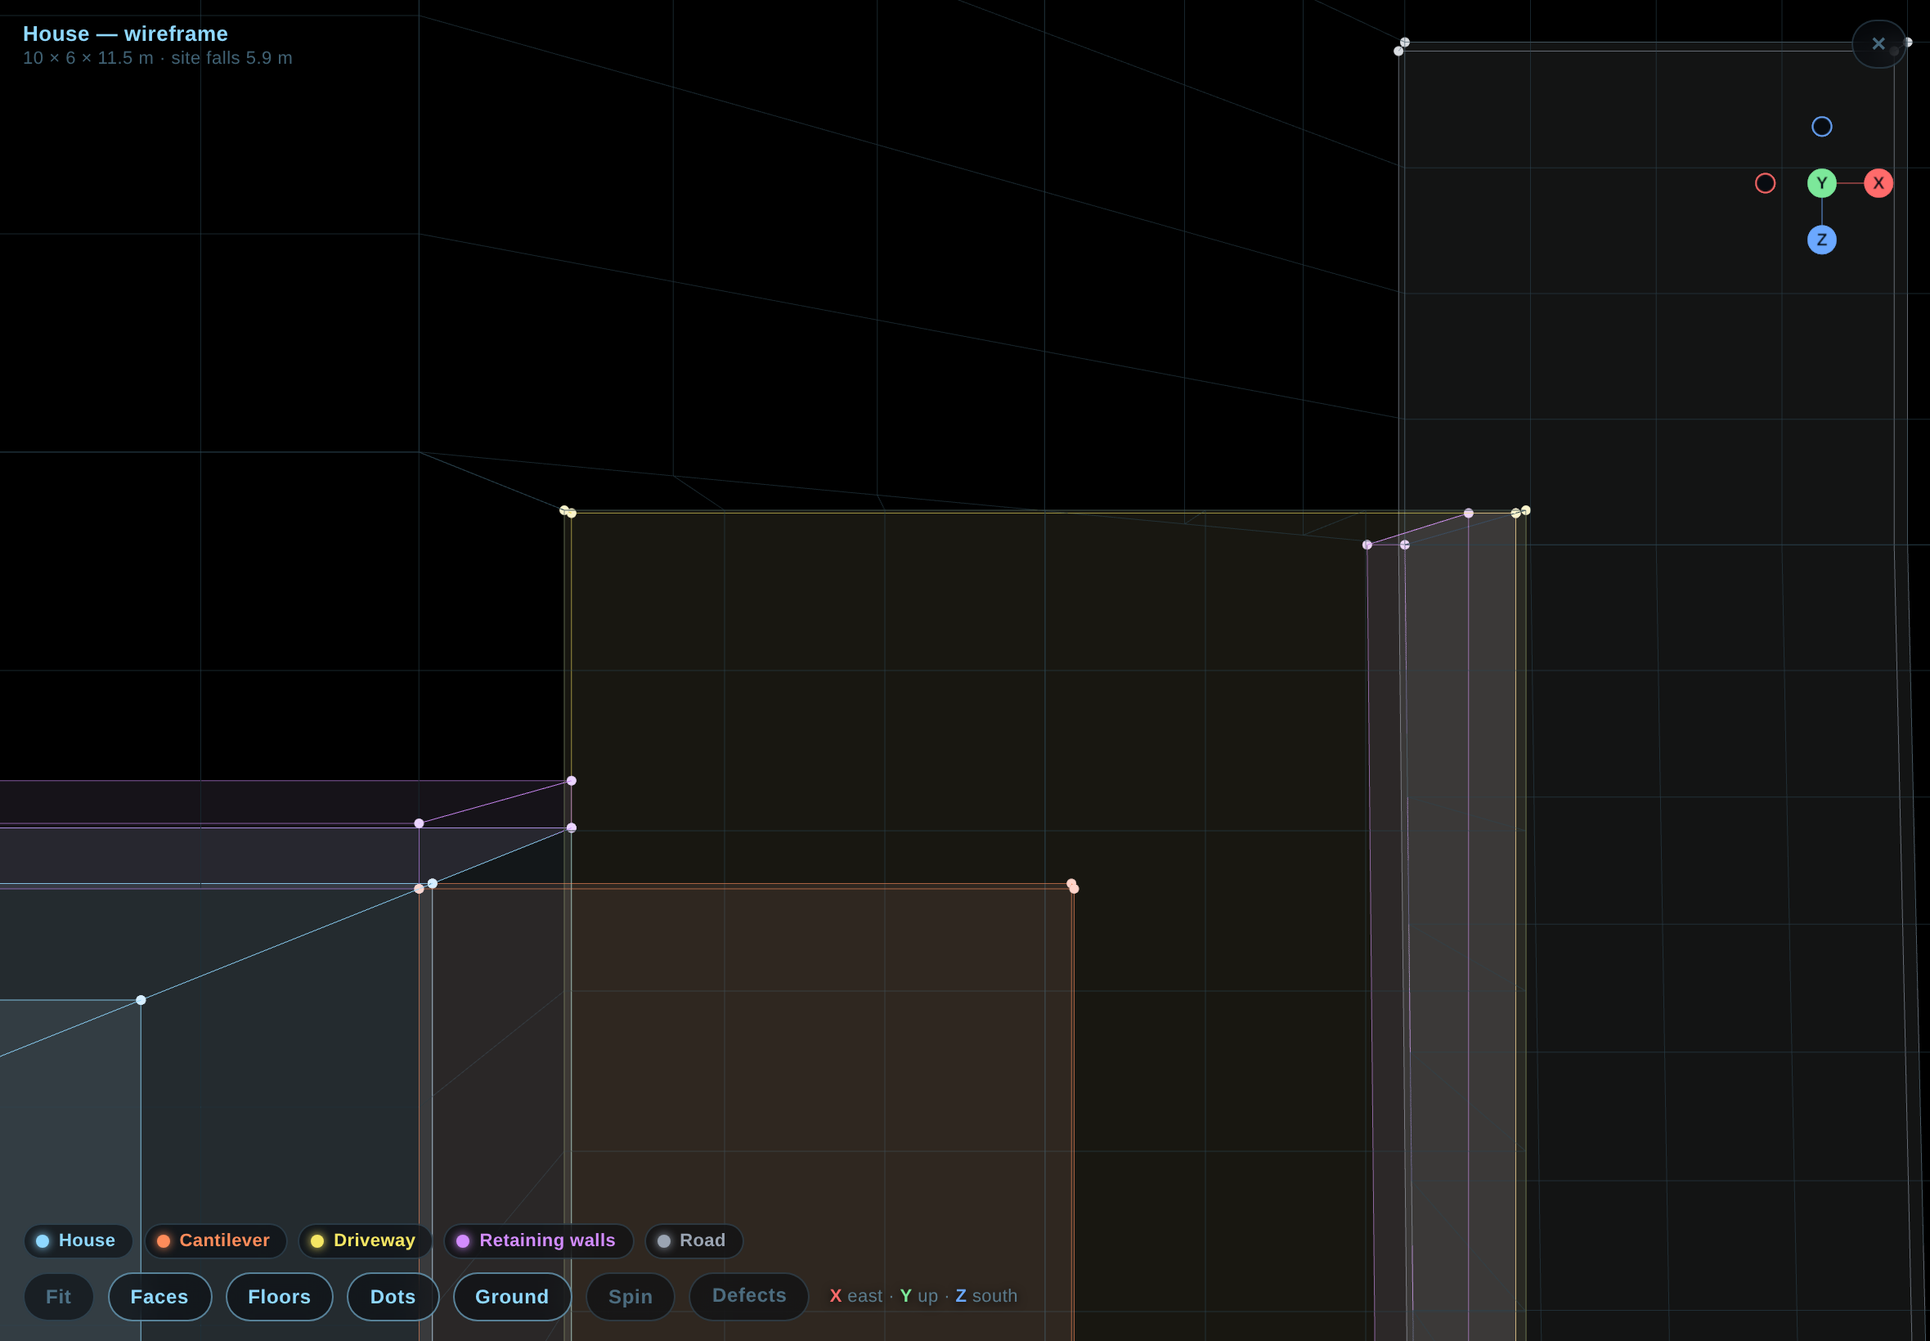
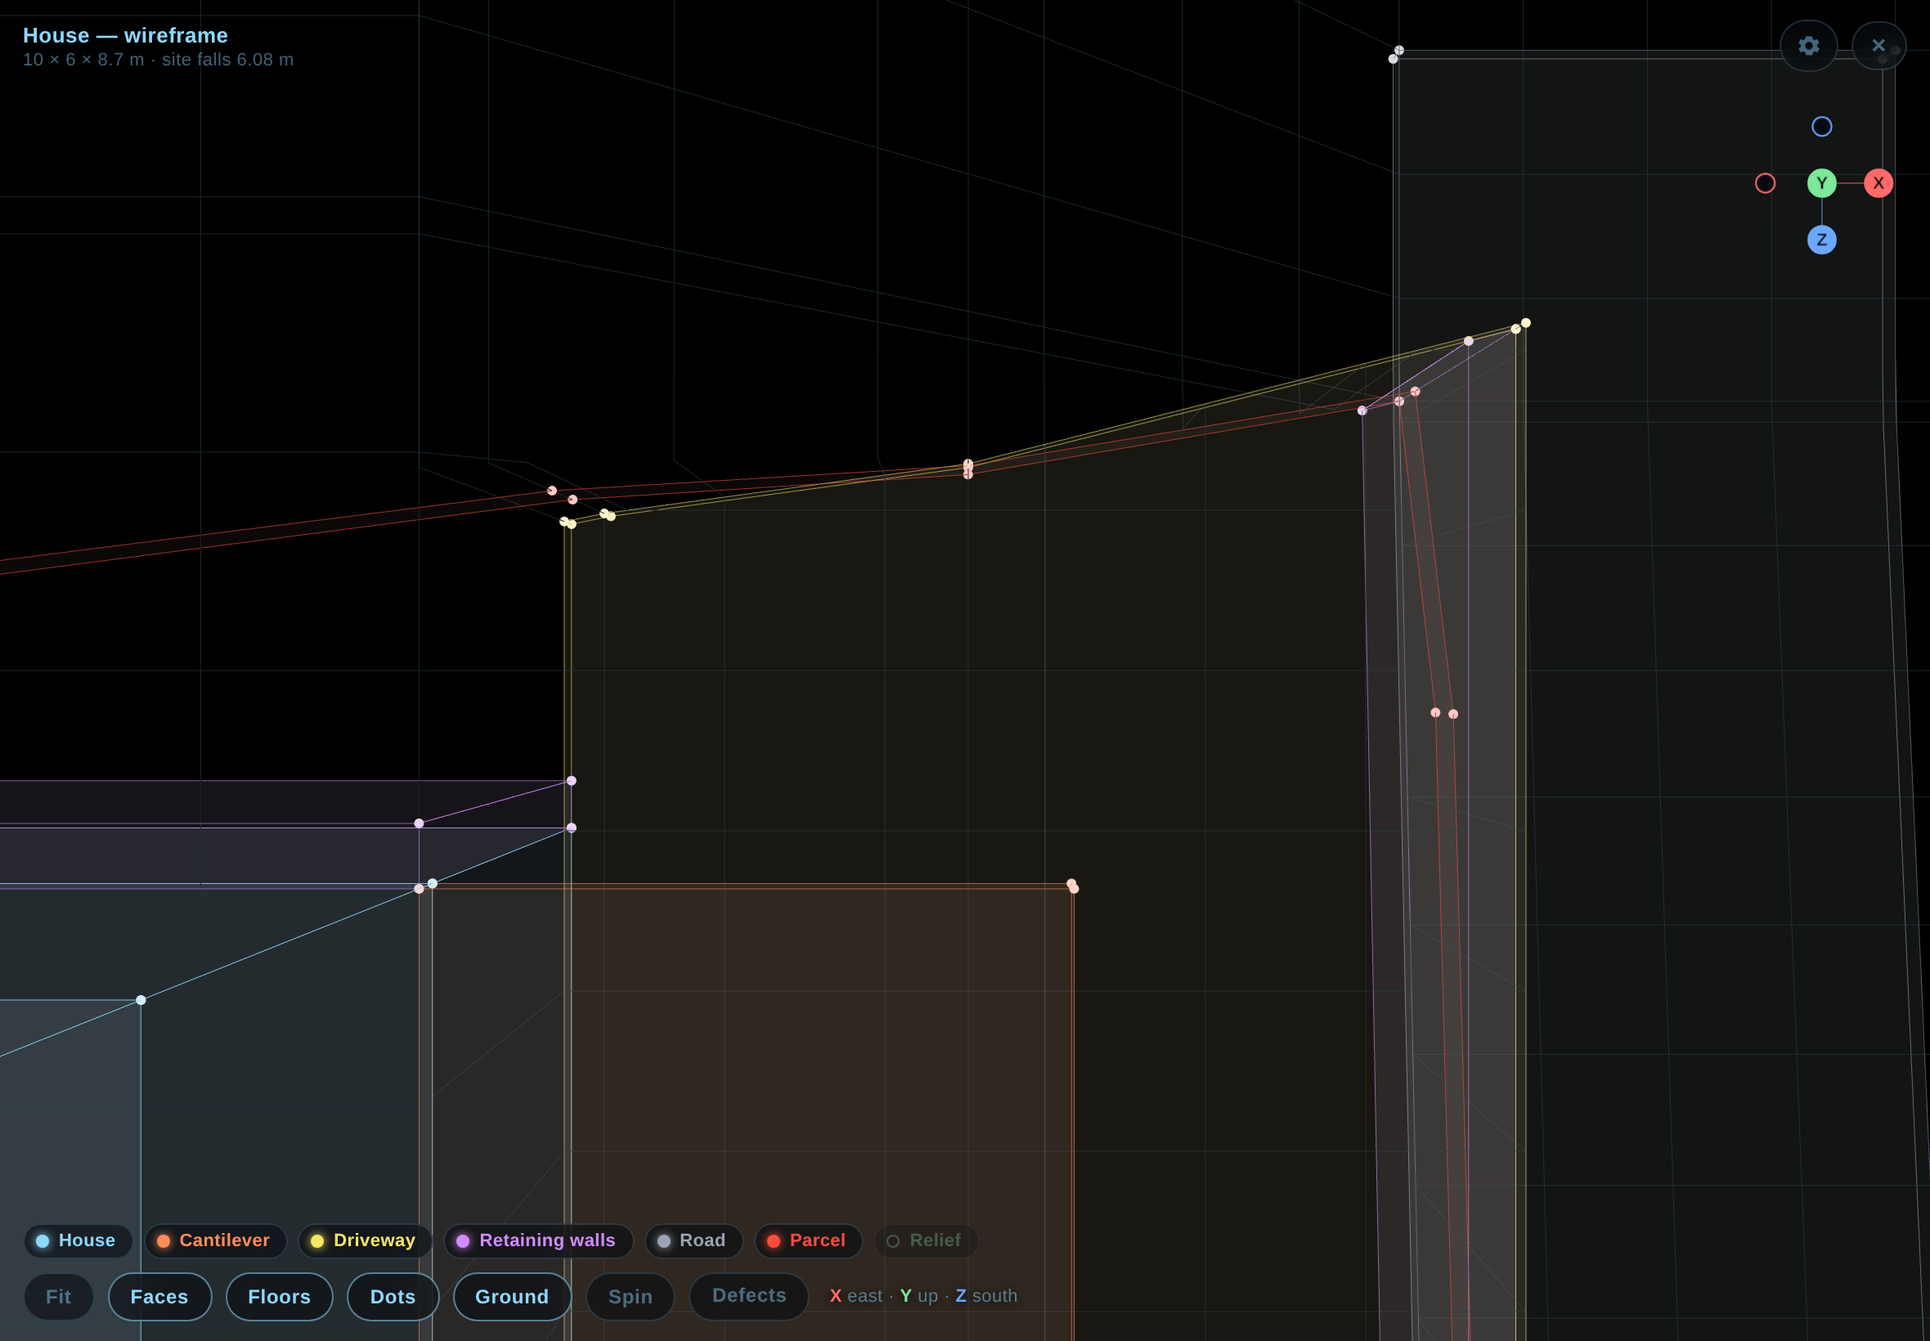
Carry the apron and the outer wall to the surveyed boundary
The cut's north edge was a flat z −1.5, which left a wedge of hill
between the apron and the north-east boundary. `terrain.cut.from` may
now be a line of [d, across] points — here the parcel's own vertices
from where its side crosses the house face line (10, −1.93) to the road
corner (16, −3.17) — and a work whose z0 is 'cut' stops on that line:
the apron's footprint takes the boundary's bends as corners, and the
walked outer wall starts each of its two chains on its own end of the
line, so its end face lies on the boundary. The ground grid samples
each line a hair either side of the slanted edge so the drop still
draws as a wall.

Claude-Session: https://claude.ai/code/session_01DNnxkDEYnqzzdbRRF1XJDk

diff --git a/apps/houseplan/app.js b/apps/houseplan/app.js
@@ -142,6 +142,10 @@ const FACE = !TER ? 0 : FRONT.axis === 'x'
   : (FRONT.sign > 0 ? e.y1 : e.y0);
 const PROFILE = TER ? [[0, TER.backLevel], ...TER.profile] : [];
 const CUT = TER?.cut ? { ...TER.cut, profile: [[0, TER.backLevel], ...TER.cut.profile] } : null;
+/* The cut's near edge across the front, `d` metres out from the face:
+   a number, or a line of [d, across] points — the boundary — straight
+   between them and held beyond. */
+const cutFrom = (d) => (typeof CUT.from === 'number' ? CUT.from : sampleProfile(CUT.from, d, 0));
 
 function sampleProfile(prof, d, across) {
   const lv = (y) => (y === 'road' ? roadLevel(across) : y);
@@ -308,7 +312,7 @@ function groundY(x, z) {
   const along = FRONT.axis === 'x' ? x : z;
   const across = FRONT.axis === 'x' ? z : x;
   const d = (along - FACE) * FRONT.sign;
-  if (!CUT || across < CUT.from || across > CUT.to) return natural(d, across);
+  if (!CUT || across < cutFrom(d) || across > CUT.to) return natural(d, across);
   const base = sampleProfile(CUT.profile, d, across);
   if (d < 0 || !CUT.ramp) return base;
   const r = CUT.ramp;
@@ -513,14 +517,22 @@ async function boot() {
 
   for (const v of VOLS) {
     const o = makeObject(v);
+    /* A z0 of 'cut' stops the volume on the cut's near edge — a line
+       when the boundary runs at an angle — so its end follows it. */
+    const onCut = v.z0 === 'cut' && CUT && FRONT.axis === 'x';
+    const cutAt = (x) => cutFrom((x - FACE) * FRONT.sign);
     if (followsGround(v) && TER) {
-      const [a0, a1] = FRONT.axis === 'x' ? [v.z0, v.z1] : [v.x0, v.x1];
       const lo = FRONT.axis === 'x' ? v.x0 : v.z0, hi = FRONT.axis === 'x' ? v.x1 : v.z1;
+      const a0Lo = onCut ? cutAt(lo) : (FRONT.axis === 'x' ? v.z0 : v.x0);
+      const a0Hi = onCut ? cutAt(hi) : a0Lo;
+      const a1 = FRONT.axis === 'x' ? v.z1 : v.x1;
       const dFace = ((FRONT.sign > 0 ? lo : hi) - FACE) * FRONT.sign;
-      const steps = runOut(stationsBetween(a0, a1), (a) => yAt(v.y1, a, dFace) - yAt(v.y0, a, dFace));
+      const steps = runOut(stationsBetween(Math.max(a0Lo, a0Hi), a1), (a) => yAt(v.y1, a, dFace) - yAt(v.y0, a, dFace));
       const n = steps.length;
+      /* Each side starts on its own end of the cut edge; the stations
+         beyond the first are shared, so the two chains match. */
       const side = (fixed, list) => list.map((a) => (FRONT.axis === 'x' ? [fixed, a] : [a, fixed]));
-      const ring = [...side(lo, steps), ...side(hi, steps.slice().reverse())];
+      const ring = [...side(lo, [a0Lo, ...steps.slice(1)]), ...side(hi, [a0Hi, ...steps.slice(1)].reverse())];
       const acrossOf = ([x, z]) => (FRONT.axis === 'x' ? z : x);
       const cornersAt = [0, n - 1, n, 2 * n - 1];
       const bottom = ring.map(([x, z]) => [x, yAt(v.y0, acrossOf([x, z]), dFace), z]);
@@ -530,13 +542,26 @@ async function boot() {
       o.dims = walkedDims(bottom, top, n);
       continue;
     }
-    const corners = [[v.x0, v.z0], [v.x1, v.z0], [v.x1, v.z1], [v.x0, v.z1]];
-    addVolume(
-      o,
-      corners.map(([x, z]) => [x, z === v.z1 ? v.y0End ?? v.y0 : v.y0, z]),
-      corners.map(([x, z]) => [x, z === v.z1 ? v.y1End ?? v.y1 : v.y1, z]),
-    );
-    o.dims = boxDims(v);
+    let corners = [[v.x0, v.z0], [v.x1, v.z0], [v.x1, v.z1], [v.x0, v.z1]];
+    if (onCut) {
+      /* The near edge is the cut line itself: its end points at the
+         volume's two sides, and every bend of the line between them. */
+      const bends = typeof CUT.from === 'number' ? [] : CUT.from
+        .map(([d, a]) => [FACE + FRONT.sign * d, a])
+        .filter(([x]) => x > v.x0 + 1e-6 && x < v.x1 - 1e-6)
+        .sort((p, q) => q[0] - p[0]);
+      corners = [[v.x0, v.z1], [v.x1, v.z1], [v.x1, cutAt(v.x1)], ...bends, [v.x0, cutAt(v.x0)]];
+    }
+    const bottom = corners.map(([x, z]) => [x, z === v.z1 ? v.y0End ?? v.y0 : v.y0, z]);
+    const top = corners.map(([x, z]) => [x, z === v.z1 ? v.y1End ?? v.y1 : v.y1, z]);
+    addVolume(o, bottom, top);
+    if (onCut) {
+      /* Every side of the footprint, and the height. */
+      o.dims = top.map((a, i) => ({ a, b: top[(i + 1) % top.length], label: mLabel(plan2(a, top[(i + 1) % top.length])) }));
+      o.dims.push({ a: bottom[1], b: top[1], label: `h ${mLabel(top[1][1] - bottom[1][1])}` });
+    } else {
+      o.dims = boxDims(v);
+    }
   }
 
   /* ── the driveway, derived ──────────────────────────── */
@@ -889,7 +914,11 @@ async function boot() {
         if (!along.includes(p)) along.push(p);
       });
     }
-    if (CUT) across.push(CUT.from - 0.001, CUT.from, CUT.to, CUT.to + 0.001);
+    if (CUT) across.push(CUT.to, CUT.to + 0.001);
+    if (CUT && typeof CUT.from === 'number') across.push(CUT.from - 0.001, CUT.from);
+    /* A cut edge that runs at an angle is met line by line below; its
+       bends get a line of their own along the front. */
+    if (CUT && typeof CUT.from !== 'number') for (const [d] of CUT.from) { const p = FACE + FRONT.sign * d; if (!along.includes(p)) along.push(p); }
     if (CUT?.ramp) {
       /* Over the driveway the grid runs at the slab's own stations, so
          its lines and the slab's edges are one polyline. */
@@ -905,14 +934,36 @@ async function boot() {
   /* Every line is walked sample by sample in both directions, so the
      grid bends with the ground whichever axis the fall is on. */
   const gridPts = [];
+  /* Where the cut's near edge is a line at an angle, each grid line
+     crossing it takes a sample a hair either side of the crossing, so
+     the drop is drawn as a wall there too. */
+  const slanted = CUT && typeof CUT.from !== 'number' && FRONT.axis === 'x';
+  const withCrossings = (list, crossings) => {
+    if (!crossings.length) return list;
+    const out = [...list];
+    for (const c of crossings) out.push(c - 0.001, c, c + 0.001);
+    return out.sort((a, b) => a - b);
+  };
+  const xCrossings = (z) => {
+    const out = [];
+    if (!slanted) return out;
+    for (let i = 1; i < CUT.from.length; i++) {
+      const [d0, a0] = CUT.from[i - 1], [d1, a1] = CUT.from[i];
+      if ((a0 - z) * (a1 - z) <= 0 && a0 !== a1) out.push(FACE + FRONT.sign * (d0 + ((z - a0) * (d1 - d0)) / (a1 - a0)));
+    }
+    return out;
+  };
+  const zCrossings = (x) => (slanted && (x - FACE) * FRONT.sign >= 0 ? [cutFrom((x - FACE) * FRONT.sign)] : []);
   for (const z of zs) {
-    for (let i = 0; i < xs.length - 1; i++) {
-      gridPts.push(xs[i], groundY(xs[i], z), z, xs[i + 1], groundY(xs[i + 1], z), z);
+    const line = withCrossings(xs, xCrossings(z));
+    for (let i = 0; i < line.length - 1; i++) {
+      gridPts.push(line[i], groundY(line[i], z), z, line[i + 1], groundY(line[i + 1], z), z);
     }
   }
   for (const x of xs) {
-    for (let i = 0; i < zs.length - 1; i++) {
-      gridPts.push(x, groundY(x, zs[i]), zs[i], x, groundY(x, zs[i + 1]), zs[i + 1]);
+    const line = withCrossings(zs, zCrossings(x));
+    for (let i = 0; i < line.length - 1; i++) {
+      gridPts.push(x, groundY(x, line[i]), line[i], x, groundY(x, line[i + 1]), line[i + 1]);
     }
   }
   ground.add(segments(gridPts, new THREE.LineBasicMaterial({

diff --git a/apps/houseplan/defects.html b/apps/houseplan/defects.html
@@ -193,13 +193,13 @@
     </section>
 
     <section class="card" id="d10">
-      <div class="head"><span class="num">10</span><span class="title">The apron's north edge has no wall</span><span class="where">z −2, x 10–16, and x 10, z −2 to 0</span><span class="status open">open</span></div>
+      <div class="head"><span class="num">10</span><span class="title">The apron's north edge has no wall</span><span class="where">the north-east boundary, (10, −1.93) to (16, −3.17), and x 10, z −1.93 to 0</span><span class="status open">open</span></div>
       <div class="body">
-        <p><b>Wrong:</b> the cut in front of the house is bounded to the north by a bare vertical face — 2.9 m of hill at x 10, falling to nothing at about x 13, and from there to the outer wall the apron sits <em>above</em> the natural ground with nothing under its edge. The strip of the house's east face line north of the garage (x 10, z −2 to 0) is bare too.</p>
-        <p><b>Fix:</b> carry the wall line on from the garage's north band: a band on the hill side of x 10 from z −0.3 to −2.3, then a band on the north side of z −2 from x 9.7 to the outer wall — a cut wall while the ground is above the apron, a fill wall down to the natural ground beyond — meeting the outer wall at the corner.</p>
+        <p><b>Wrong:</b> the cut in front of the house is bounded to the north by a bare vertical face — 2.9 m of hill at x 10, falling to nothing at about x 13, and from there to the outer wall the apron sits <em>above</em> the natural ground with nothing under its edge. The strip of the house's east face line north of the garage (x 10, z −1.93 to 0) is bare too. The edge used to stop at z −1.5, short of the boundary; the apron and the outer wall now run to the boundary itself.</p>
+        <p><b>Fix:</b> carry the wall line on from the garage's north band: a band on the hill side of x 10 from z −0.3 to −2.3, then a band just inside the boundary line from x 9.7 to the outer wall — a cut wall while the ground is above the apron, a fill wall down to the natural ground beyond — meeting the outer wall at the corner.</p>
       </div>
       <div class="shots">
-        <figure><img src="defects/10-apron-north-plan.png" alt="Plan view of the apron's north edge" /><figcaption>Straight down on the apron's north-west corner: the garage's north band ends at the house face, and the apron's north edge (top of the yellow) has no wall.</figcaption></figure>
+        <figure><img src="defects/10-apron-north-plan.png" alt="Plan view of the apron's north edge" /><figcaption>Straight down on the apron's north end: its edge runs on the boundary, bend for bend, to the road corner, where the outer wall ends on it — and none of it has a wall yet. (The red ribbon sits lower than the slab, so from this height it draws a little offset.)</figcaption></figure>
         <figure><img src="defects/garage-walls-corner.png" alt="The garage walls at the south-east corner" /><figcaption>For reference: the garage's bands outside the envelope, the south one running into the fillet wall at the corner.</figcaption></figure>
       </div>
     </section>

diff --git a/apps/houseplan/plan.js b/apps/houseplan/plan.js
@@ -121,11 +121,15 @@ window.HOUSE_PLAN = {
     /* In front of the house only — between `from` and `to` across the
      * front — the ground is cut to this profile instead: dropped to the
      * garage floor at the door, level out to the wall, then down. */
-    /* The cut spans the frontage the survey gives — z −3.17 to 16.17 —
-     * less a little at the north end, where the boundary runs at an
-     * angle and the apron's corner at x 10 must stay inside it. */
+    /* The cut spans the frontage the survey gives, to z 16.17 at the
+     * south end. At the north end the boundary runs at an angle, so
+     * `from` is a line, not a number: [out from the face, across], the
+     * parcel's own vertices from where its north-east side crosses the
+     * house face line (x 10, z −1.93) to its road corner (16, −3.17),
+     * straight between and held beyond. Everything that stops at the
+     * cut's north edge — the apron, the outer wall — stops on it. */
     cut: {
-      from: -1.5,
+      from: [[0, -1.93], [0.25, -1.98], [2.52, -2.29], [6, -3.17]],
       to: 16.17,
       profile: [
         [0, -2.9],     // straight down at the door, to the garage floor
@@ -172,7 +176,9 @@ window.HOUSE_PLAN = {
    * foot simply ends where the two meet. */
   works: [
     { id: 'canopy', group: 'canopy', name: 'Cantilever over the door', x0: 10, x1: 13, y0: -0.2, y1: 0, z0: 0, z1: 6 },
-    { id: 'driveway', group: 'drive', name: 'Apron, in front of the door', x0: 10, x1: 16, y0: -3.1, y1: -2.9, z0: -1.5, z1: 6 },
+    /* A z0 of 'cut' is the cut's north edge — the boundary line — so
+     * the apron fills the parcel right up to it. */
+    { id: 'driveway', group: 'drive', name: 'Apron, in front of the door', x0: 10, x1: 16, y0: -3.1, y1: -2.9, z0: 'cut', z1: 6 },
     /* The ramp itself is derived from `terrain.cut` — one slab from the
      * apron's edge to the mouth, the fillet's corner included — as are
      * the walls along its uphill side and the mouth. */
@@ -190,7 +196,7 @@ window.HOUSE_PLAN = {
     { id: 'garage-wall-south', group: 'wall', name: 'Garage wall, south', x0: -0.3, x1: 10, z0: 6, z1: 6.3, y0: -3.1, y1: 0 },
     { id: 'garage-wall-west', group: 'wall', name: 'Garage wall, west', x0: -0.3, x1: 0, z0: 0, z1: 6, y0: -3.1, y1: 0 },
     { id: 'garage-wall-north', group: 'wall', name: 'Garage wall, north', x0: -0.3, x1: 10, z0: -0.3, z1: 0, y0: -3.1, y1: 0 },
-    { id: 'retainer', group: 'wall', name: 'Retaining wall', x0: 15.7, x1: 16, y0: { road: 0 }, y1: -3.1, z0: -1.5, z1: 6 },
+    { id: 'retainer', group: 'wall', name: 'Retaining wall', x0: 15.7, x1: 16, y0: { road: 0 }, y1: -3.1, z0: 'cut', z1: 6 },
     { id: 'retainer-ramp', group: 'wall', name: 'Retaining wall, tapering out', x0: 15.7, x1: 16, z0: 6, z1: 14, y0: { road: 0 }, y1: { floor: -0.2 } },
     /* The road, parallel to the wall along its outer face. `frame: false`
      * keeps its 30 m out of the camera's Fit, so the house stays the

diff --git a/apps/houseplan/DEFECTS.md b/apps/houseplan/DEFECTS.md
@@ -60,7 +60,7 @@ fix.
 | 7 | Ramp, z 6–22 | Grid at 1 m, slabs at 0.5 m: lines that should coincide did not. | R5: one `STEP` (0.5 m) for walked volumes and for the grid over the driveway, stations from `ramp.from`, so slab edges and grid lines are the same polyline. | shipped | (19, −1.6, 9.6) → (14.5, −4.2, 10.5) |
 | 8 | Whole ramp | 27 % average, ~36 % mid. | D2 brought it to 12.5 %, D3's landing to 18 % — and the real frontage (19.3 m, ending at z 16.17) leaves only z 6–14 for the grade: **1.76 m over 8 m, 22 % average, ~27 % mid**, with a 2.2 m landing. The frontage is the hard limit now; see D4. | open — decision D4 | (34, −2.5, 10) → (14.5, −4.5, 10) |
 | 9 | The entrance, z 16–22 | The outer wall ran to the tip and the floor met the road only over the last 1.5 m. | D3: the driveway reaches the road at z 18 and from there *is* the road's surface (a 4 m landing that follows the road's own fall, with the mouth's flare opening onto it); the outer wall runs out at z ≈ 16.1, so the road side is open for 6 m, the first 2 m with a kerb of at most 24 cm. | shipped | plan view (15.5, 6, 19) → (15.5, −5, 19), up −Z |
-| 10 | Apron's north edge, z −2, x 10–16, and the house face x 10, z −2…0 | The cut in front of the house is bounded to the north by a bare vertical face: 2.9 m of hill at x 10 falling to nothing at x ≈ 12.95, and from there to the outer wall the apron sits *above* the natural ground with no wall under its edge. The strip of the house's east face line north of the garage (x 10, z −2…0) is bare too. | Carry the wall line on: garage north band → a band on the hill side of x 10 from z −0.3 to −2.3 → a band on the north side of z −2 from x 9.7 to 16, cut wall as far as the ground is above the apron, fill wall (down to natural ground) beyond, meeting the outer wall at (16, −2). | open | plan view (12.5, 8, −1) → (12.5, −3, −1), up −Z |
+| 10 | Apron's north edge — the north-east boundary from (10, −1.93) to the road corner (16, −3.17) — and the house face x 10, z −1.93…0 | The cut in front of the house is bounded to the north by a bare vertical face: 2.9 m of hill at x 10 falling to nothing at x ≈ 13, and from there to the outer wall the apron sits *above* the natural ground with no wall under its edge. The strip of the house's east face line north of the garage (x 10, z −1.93…0) is bare too. (The edge used to stop at z −1.5, short of the boundary; it now runs on the boundary itself.) | Carry the wall line on: garage north band → a band on the hill side of x 10 from z −0.3 to the boundary → a band inside the boundary line to the outer wall, cut wall as far as the ground is above the apron, fill wall (down to natural ground) beyond, meeting the outer wall at the road corner. The band would take 30 cm off the apron's north edge. | open | plan view (12.5, 8, −1) → (12.5, −3, −1), up −Z |
 | 11 | The house against the real parcel | With the surveyed parcel overlaid, the house's north edge lay outside the north-east boundary and the cut assumed a 24 m frontage. | D5: the parcel is placed 3.5 m further north relative to the house (frontage midpoint at z 6.5), so the north wall clears the boundary by 0.5 m at its north-west corner and the apron's corner at x 10 stays inside; the cut, the road's fall and the ramp now use the surveyed frontage (z −3.17…16.17, road −6.08 → −4.48). | fixed | plan view (−4, 60, 7) → (−4, 0, 7), up −Z |
 
 ## Decisions
@@ -134,6 +134,11 @@ fix.
 - The surveyed ground as a Relief group, and the parcel re-placed so the
   house clears the boundary; cut, road fall and ramp follow the surveyed
   frontage (branch, unmerged).
+- The apron and the outer retaining wall carried to the surveyed boundary:
+  the cut's north edge is the parcel's north-east side itself, bend for
+  bend, from where it crosses the house face line (10, −1.93) to the
+  road corner (16, −3.17); the apron fills up to it and the outer wall
+  ends on it (branch, unmerged).
 - The terrain app's other layers — surface, 10 cm and 1 m contours,
   contour labels at the parcel's edges, the draped survey lattice — and a
   Layers section in Settings with a checkbox for every layer (drawing
